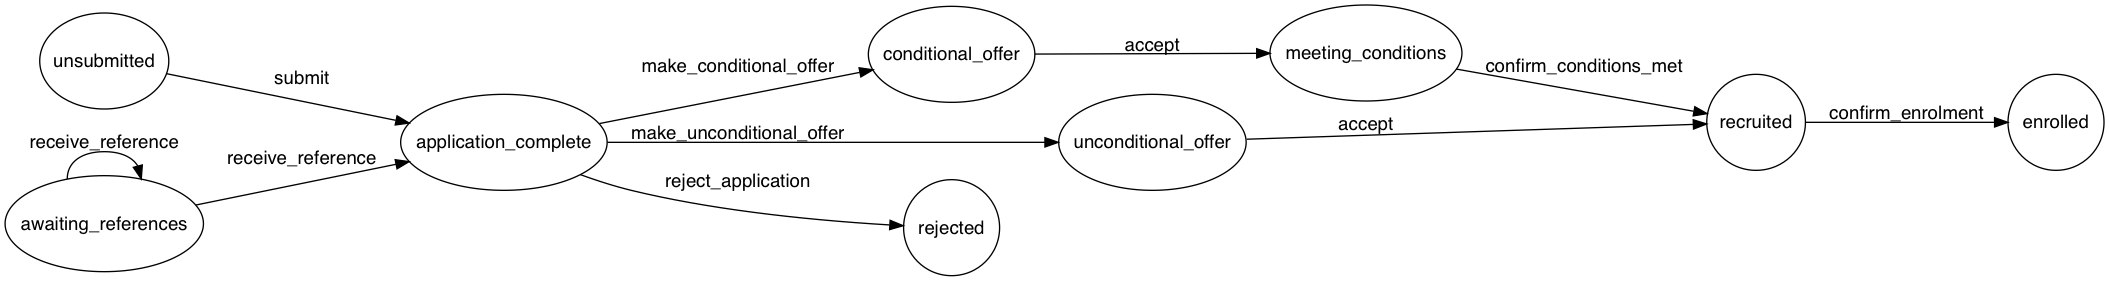
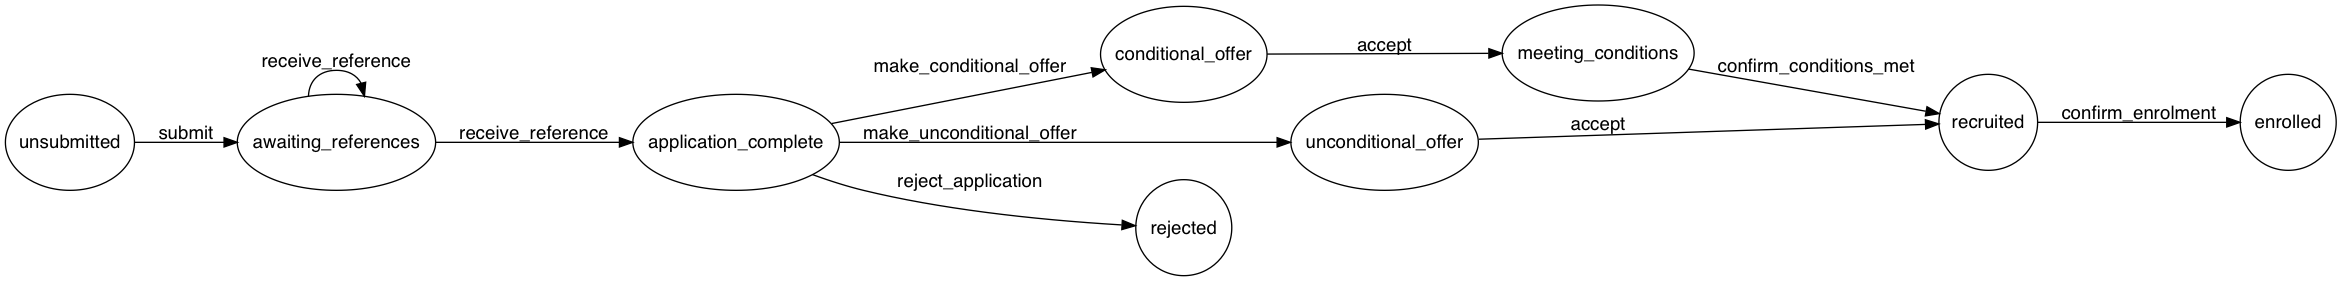
Submitted applications aren't complete, instead await references

diff --git a/features/step_definitions/application_steps.rb b/features/step_definitions/application_steps.rb
@@ -1,8 +1,9 @@
 Given(/an application choice has "(.*)" status/) do |orginal_application_status|
-  @application_choice = FactoryBot.create(:application_choice, status: orginal_application_status.gsub(' ', '_'))
+  @application_choice = FactoryBot.create(:application_choice, :single, status: orginal_application_status.gsub(' ', '_'))
 end
 
 Given('the candidate has specified {string} and {string} as referees') do |referee1_email, referee2_email|
+  @application_choice.application_form.references.map(&:delete)
   FactoryBot.create(:reference, :unsubmitted,
     email_address: referee1_email,
     application_form: @application_choice.application_form)
@@ -17,10 +18,11 @@ When(/^the (\w+) takes action "([\w\s]+)"$/) do |_actor, action|
 end
 
 When('{string} provides a reference') do |referee_email|
-  ReceiveReference.new(
+  action = ReceiveReference.new(
     application_form: @application_choice.application_form,
     referee_email: referee_email,
     reference: Faker::Lorem.paragraphs(number: 2))
+  expect(action.save).to be_truthy
 end
 
 Then('the new application choice status is {string}') do |new_application_status|

diff --git a/spec/factories.rb b/spec/factories.rb
@@ -111,6 +111,10 @@ FactoryBot.define do
     course_option
     status { ApplicationStateChange.valid_states.sample }
     personal_statement { 'hello' }
+
+    trait :single do
+      association :application_form, factory: :completed_application_form, application_choices_count: 0
+    end
   end
 
   factory :vendor_api_user do

diff --git a/app/services/application_state_change.rb b/app/services/application_state_change.rb
@@ -13,7 +13,7 @@ class ApplicationStateChange
   #
   workflow do
     state :unsubmitted do
-      event :submit, transitions_to: :application_complete
+      event :submit, transitions_to: :awaiting_references
     end
 
     state :awaiting_references do
